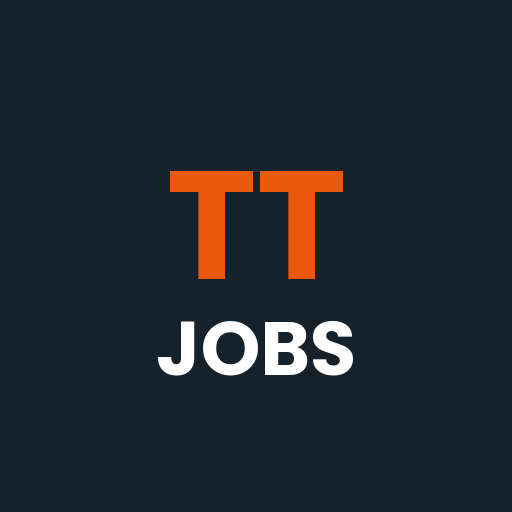
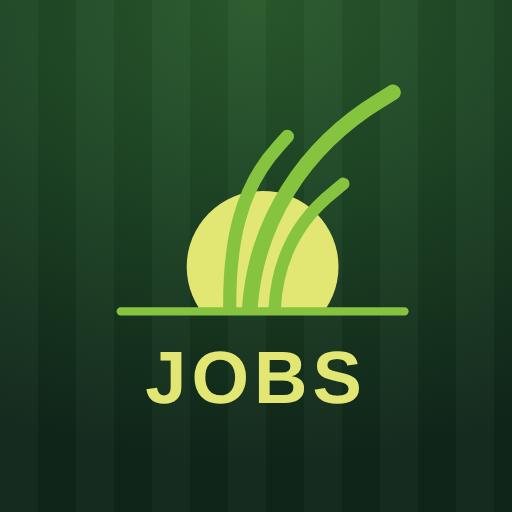
Jobs hub: Turf Tek look and animations (field header, sun + grass splash, day-wrapped screen), smarter speech matching
Claude-Session: https://claude.ai/code/session_011aVj9ML5H66KMwTGkDsHqs

diff --git a/hub/index.html b/hub/index.html
@@ -3,13 +3,13 @@
 <head>
 <meta charset="utf-8">
 <meta name="viewport" content="width=device-width,initial-scale=1,viewport-fit=cover">
-<meta name="theme-color" content="#e8590c">
+<meta name="theme-color" content="#10261a">
 <meta name="apple-mobile-web-app-capable" content="yes">
 <meta name="apple-mobile-web-app-title" content="TT Jobs">
 <link rel="manifest" href="manifest.webmanifest">
 <link rel="apple-touch-icon" href="icon-180.png">
 <link rel="preconnect" href="https://fonts.googleapis.com">
-<link rel="stylesheet" href="https://fonts.googleapis.com/css2?family=Barlow+Condensed:wght@500;600;700&family=Atkinson+Hyperlegible:wght@400;700&display=swap">
+<link rel="stylesheet" href="https://fonts.googleapis.com/css2?family=Barlow:wght@400;500;600;700&family=Barlow+Condensed:wght@600;700&display=swap">
 <title>Turf Tek Jobs</title>
 <style>
 :root{--bg:#eef2f4;--panel:#fff;--ink:#15212b;--muted:#5b6b78;--line:#d3dce2;--paint:#e8590c;--paintsoft:#fff0e6;--steel:#1f5f8b;--steelsoft:#e6f0f7;--good:#1e7d45;--goodbg:#e3f3e9;--warn:#a86500;--warnbg:#fbefd9;--bad:#b42318;--badbg:#fbe4e1;--shadow:0 1px 2px rgba(21,33,43,.06),0 4px 14px rgba(21,33,43,.06);--display:"Barlow Condensed","Arial Narrow",system-ui,sans-serif;--body:"Atkinson Hyperlegible",system-ui,sans-serif}
@@ -101,10 +101,120 @@ label.f{display:block;font-size:13px;font-weight:700;color:var(--muted);margin:1
 .btag{display:flex;gap:6px;flex-wrap:wrap;margin-top:5px}
 .toast{position:fixed;left:50%;bottom:calc(84px + env(safe-area-inset-bottom));transform:translateX(-50%);background:var(--ink);color:#fff;padding:10px 16px;border-radius:999px;font-size:14px;z-index:30;opacity:0;transition:opacity .2s;pointer-events:none}
 .toast.show{opacity:1}
+
+/* ===== Turf Tek look: same field, sun and grass as the Turf Tek Direct calculator ===== */
+:root{--brand:#86c440;--brand-d:#5f9b25;--sun:#e2e773;--forest:#10261a;--forest2:#1d4424;--green-l:#eef6e6;
+  --bg:#f1f4ee;--panel:#fff;--ink:#16221a;--muted:#5f6d62;--line:#e3e9df;--paint:#73b02f;--paintsoft:#eef6e6;--steel:#2f6d2a;--steelsoft:#eef6e6;--good:#3f8f2f;--goodbg:#e6f3dc;
+  --shadow:0 1px 2px rgba(16,38,26,.06),0 6px 20px rgba(16,38,26,.06);--body:Barlow,system-ui,sans-serif;
+  --stripes:repeating-linear-gradient(90deg,rgba(255,255,255,.025) 0 38px,rgba(0,0,0,.04) 38px 76px);
+  --field:radial-gradient(120% 90% at 50% 0%,#2a5a2c 0%,#1d4424 45%,#10261a 100%)}
+body{line-height:1.4}
+.top{background:var(--stripes),var(--field);padding-bottom:14px;box-shadow:0 4px 18px rgba(16,38,26,.22)}
+.top:after{content:"";position:absolute;left:0;right:0;bottom:0;height:4px;background:linear-gradient(90deg,var(--brand),var(--sun),var(--brand))}
+.top .mark{width:46px;height:auto;flex:none;margin:-4px -2px -2px -4px;overflow:visible}
+.brand{letter-spacing:.06em;font-size:25px;line-height:1}
+.brand b{color:var(--sun)}
+.sub{margin-top:2px}
+.iconbtn{background:rgba(255,255,255,.09);border:1px solid rgba(255,255,255,.14);border-radius:12px;width:42px;height:42px;font-size:20px;transition:transform .4s}
+.iconbtn:active{transform:rotate(60deg)}
+.tabs{background:rgba(16,38,26,.95);backdrop-filter:blur(10px);-webkit-backdrop-filter:blur(10px);border-top:0}
+.tabs button{color:rgba(255,255,255,.55);position:relative;transition:color .2s}
+.tabs button span{transition:transform .25s cubic-bezier(.2,.9,.3,1.4)}
+.tabs button.on{color:var(--sun)}
+.tabs button.on span{transform:translateY(-2px) scale(1.12)}
+.tabs button.on:before{content:"";position:absolute;top:0;left:28%;right:28%;height:3px;border-radius:0 0 4px 4px;background:var(--brand);animation:tabIn .3s ease-out}
+@keyframes tabIn{from{transform:scaleX(0)}to{transform:none}}
+h2{color:var(--forest2)}
+.card,.list{border:1px solid var(--line);border-radius:18px}
+.jobname{color:var(--forest2)}
+.btn{background:var(--green-l);color:var(--forest2);transition:transform .1s,box-shadow .15s,background .15s}
+.btn:active{transform:translateY(1px) scale(.99)}
+.btn.paint{background:linear-gradient(180deg,#8fcd48,#73b02f);color:var(--forest);box-shadow:0 6px 16px rgba(115,176,47,.35)}
+.btn.paint:active{box-shadow:0 3px 8px rgba(115,176,47,.3)}
+.btn.ghost{background:none;color:var(--brand-d);box-shadow:none}
+.mic{background:linear-gradient(180deg,#8fcd48,#73b02f);color:var(--forest)}
+.mic.live{animation:micPulse 1.1s ease-out infinite}
+@keyframes micPulse{0%{box-shadow:0 0 0 0 rgba(134,196,64,.75)}100%{box-shadow:0 0 0 16px rgba(134,196,64,0)}}
+.check{border-color:#cdd8c7;transition:background .15s,border-color .15s}
+.check.on{background:var(--brand);border-color:var(--brand);color:var(--forest);animation:tick .35s cubic-bezier(.2,.9,.3,1.5)}
+@keyframes tick{0%{transform:scale(.5)}100%{transform:none}}
+.chip{transition:all .15s}
+.chip.on{border-color:var(--brand);background:var(--green-l);color:var(--forest2)}
+.seg{background:#e4ebe0;border-radius:12px}
+.seg button{transition:all .15s}
+.seg button.on{color:var(--forest2);box-shadow:0 1px 4px rgba(0,0,0,.1)}
+.tag{background:var(--green-l);color:var(--forest2)}
+.tag.lsi{background:#e6eef7;color:#24527a}.tag.pp{background:#fdf0e0;color:#8a4b06}.tag.kompan{background:#e6f3dc;color:#2f6d2a}
+.bar{background:#e4ebe0}
+.bar i{background:linear-gradient(90deg,var(--brand),var(--sun));transform-origin:left;animation:barIn 1s cubic-bezier(.3,0,.15,1)}
+@keyframes barIn{from{transform:scaleX(0)}}
+input[type=text],input[type=date],input[type=number],input[type=search],input[type=url],select,textarea{border-color:#dbe3d7;background:#fbfcfa;border-radius:11px;transition:border-color .15s,box-shadow .15s,background .15s}
+input:focus,select:focus,textarea:focus{outline:none;border-color:var(--brand)!important;background:#fff;box-shadow:0 0 0 4px rgba(134,196,64,.2)}
+.istoday{background:var(--green-l)}
+.istoday .daynum b{color:var(--brand-d)}
+.wsum{background:var(--forest2);color:#fff}
+.hit mark{background:var(--sun)}
+.toast{background:var(--forest2);box-shadow:0 6px 20px rgba(16,38,26,.3)}
+/* today: the field card */
+.hero-card{background:var(--stripes),var(--field);color:#fff;border:0;position:relative;overflow:hidden;padding-bottom:16px}
+.hero-card:after{content:"";position:absolute;left:0;right:0;bottom:0;height:4px;background:linear-gradient(90deg,var(--brand),var(--sun),var(--brand))}
+.hero-card .sunbg{position:absolute;right:-34px;top:-30px;width:150px;height:150px;border-radius:50%;background:var(--sun);opacity:.13;animation:sunGrow .8s cubic-bezier(.2,.9,.3,1.25) both}
+@keyframes sunGrow{from{transform:scale(0)}to{transform:scale(1)}}
+.hero-card>*:not(.sunbg){position:relative}
+.hero-card .muted{color:rgba(255,255,255,.7)!important}
+.hero-card .today-date{color:var(--sun)}
+.hero-card .jobname{color:#fff}
+.hero-card .btn.ghost{color:var(--sun)}
+.hero-card .btn:not(.paint):not(.ghost){background:rgba(255,255,255,.09);color:#fff;border:1px solid rgba(255,255,255,.14)}
+.hero-card .tag.lsi,.hero-card .tag.pp,.hero-card .tag.kompan{background:rgba(255,255,255,.12);color:#fff}
+/* motion */
+@keyframes pop{from{opacity:0;transform:translateY(10px)}to{opacity:1;transform:none}}
+#view.anim>*{animation:pop .4s ease-out both}
+#view.anim>*:nth-child(2){animation-delay:.05s}#view.anim>*:nth-child(3){animation-delay:.1s}#view.anim>*:nth-child(4){animation-delay:.15s}
+#view.anim>*:nth-child(5){animation-delay:.2s}#view.anim>*:nth-child(6){animation-delay:.25s}#view.anim>*:nth-child(n+7){animation-delay:.3s}
+.sheetbg{animation:fadeIn .2s ease-out}
+.sheet{animation:sheetUp .34s cubic-bezier(.2,.9,.3,1)}
+@keyframes sheetUp{from{transform:translateY(40%);opacity:.4}to{transform:none;opacity:1}}
+@keyframes fadeIn{from{opacity:0}to{opacity:1}}
+/* sun + grass mark */
+.mk .sun{transform-box:fill-box;transform-origin:50% 100%}
+.mk.play .sun{transform:scale(0);opacity:0;animation:sunUp .6s cubic-bezier(.2,.9,.3,1.25) .1s forwards}
+.mk.play .ground{stroke-dasharray:1 1;stroke-dashoffset:1;animation:grow .5s ease-out .45s forwards}
+.mk.play .g{stroke-dasharray:1 1;stroke-dashoffset:1}
+.mk.play .g1{animation:grow .9s cubic-bezier(.3,0,.15,1) .55s forwards}
+.mk.play .g2{animation:grow 1.1s cubic-bezier(.3,0,.15,1) .7s forwards}
+.mk.play .g3{animation:grow .85s cubic-bezier(.3,0,.15,1) .9s forwards}
+.mk .blades{transform-box:fill-box;transform-origin:50% 100%}
+.mk.play .blades{animation:sway 5s ease-in-out 2.4s infinite}
+@keyframes sunUp{from{transform:scale(0);opacity:0}to{transform:scale(1);opacity:1}}
+@keyframes grow{to{stroke-dashoffset:0}}
+@keyframes sway{0%,100%{transform:rotate(0)}50%{transform:rotate(1.6deg)}}
+/* splash + day-wrapped screens */
+.field{position:fixed;inset:0;z-index:60;display:flex;flex-direction:column;align-items:center;justify-content:center;color:#fff;text-align:center;background:var(--stripes),var(--field);padding:30px 22px calc(30px + env(safe-area-inset-bottom));cursor:pointer}
+.field:after{content:"";position:absolute;left:0;right:0;bottom:0;height:5px;background:linear-gradient(90deg,var(--brand),var(--sun),var(--brand))}
+.field .mk{width:min(240px,62vw);height:auto;overflow:visible}
+.field h1,.field h2{font-family:var(--display);font-weight:700;text-transform:uppercase;letter-spacing:.06em;margin:6px 0 0;color:#fff}
+.field h1{font-size:46px;line-height:.95}.field h1 b{color:var(--sun)}
+.field h2{font-size:38px;line-height:1}
+.field p{color:rgba(255,255,255,.8);margin:10px 0 0}
+.field .fade{opacity:0;transform:translateY(8px);animation:pop .5s ease-out forwards}
+.field.intro{transition:transform .6s cubic-bezier(.65,0,.25,1)}
+.field.out{transform:translateY(-100%)}
+.field.done{animation:fadeIn .35s ease-out}
+.field.bye{opacity:0;transition:opacity .3s}
+.field .tiles{display:grid;grid-template-columns:repeat(3,1fr);gap:8px;width:100%;max-width:420px;margin-top:22px}
+.field .tiles div{background:rgba(255,255,255,.08);border:1px solid rgba(255,255,255,.12);border-radius:12px;padding:10px 6px}
+.field .tiles b{display:block;font-family:var(--display);font-size:32px;line-height:1.05;color:#fff}
+.field .tiles div:first-child b{color:var(--sun)}
+.field .tiles span{font-size:12px;color:rgba(255,255,255,.7)}
+.field .btn.paint{margin-top:24px;max-width:420px;width:100%;font-size:18px}
+.field .skip{position:absolute;bottom:calc(20px + env(safe-area-inset-bottom));left:0;right:0;font-size:12.5px;color:rgba(255,255,255,.45)}
+@media (prefers-reduced-motion:reduce){*,*:before,*:after{animation-duration:.01s!important;animation-delay:0s!important;transition-duration:.01s!important}}
 </style>
 </head>
 <body>
 <header class="top">
+  <svg class="mark mk" viewBox="0 0 200 150" aria-hidden="true"></svg>
   <div><div class="brand">TURF TEK <b>JOBS</b></div><div class="sub" id="hdrSub"></div></div>
   <div class="sp"></div>
   <button class="iconbtn" id="gear" aria-label="Settings">⚙</button>
@@ -149,7 +259,37 @@ DB.crew??=[];DB.rem??=[];DB.sched??={};
 const save=()=>{try{localStorage.setItem(KEY,JSON.stringify(DB))}catch(e){toast('Could not save on this device')}};
 save();
 
-const S={tab:'today',job:null,jtab:'overview',filter:'active',q:''};
+const S={tab:'today',job:null,jtab:'overview',filter:'active',q:'',anim:true};
+/* ---------- sun + grass mark (same shape as the Turf Tek Direct logo) ---------- */
+const MARK=`<defs><clipPath id="mkc"><rect x="0" y="0" width="200" height="138"/></clipPath></defs>
+  <circle class="sun" cx="104" cy="112" r="46" fill="#e2e773" clip-path="url(#mkc)"/>
+  <g class="blades" fill="none" stroke="#86c440" stroke-linecap="round" clip-path="url(#mkc)">
+    <path class="g g1" pathLength="1" stroke-width="8" d="M84.1,140 L84.1,137.7 C83.7,98.7 89.8,65 113.4,39.2 L119,33"/>
+    <path class="g g2" pathLength="1" stroke-width="9.5" d="M96.2,140 L96.2,137.7 C99.6,85.4 128.8,39.3 175.4,11 L183,6.3"/>
+    <path class="g g3" pathLength="1" stroke-width="7.5" d="M111.3,140 L111.3,137.7 C112.8,107.6 125.2,83.7 147.2,66.4 L152.9,61.7"/>
+  </g>
+  <path class="ground" pathLength="1" d="M18,139 L190,139" stroke="#86c440" stroke-width="5" stroke-linecap="round" fill="none"/>`;
+document.querySelector('.top .mark').innerHTML=MARK;
+function splash(){
+  try{if(sessionStorage.getItem('hub_intro'))return;sessionStorage.setItem('hub_intro','1')}catch(e){}
+  if(matchMedia('(prefers-reduced-motion: reduce)').matches)return;
+  const el=document.createElement('div');el.className='field intro';
+  el.innerHTML=`<svg class="mk play" viewBox="0 0 200 150">${MARK}</svg><h1 class="fade" style="animation-delay:1.2s">Turf Tek <b>Jobs</b></h1><p class="fade" style="animation-delay:1.35s">${fmt(TODAY())}</p><div class="skip">Tap to skip</div>`;
+  document.body.appendChild(el);
+  let done=false;const leave=()=>{if(done)return;done=true;el.classList.add('out');setTimeout(()=>el.remove(),650)};
+  setTimeout(leave,2300);el.onclick=leave;
+}
+function wrapped(stats){
+  const el=document.createElement('div');el.className='field done';
+  el.innerHTML=`<svg class="mk play" viewBox="0 0 200 150">${MARK}</svg>
+    <h2 class="fade" style="animation-delay:1.1s">${stats.moved?'Day wrapped':'Clean sweep'}</h2>
+    <p class="fade" style="animation-delay:1.2s">${esc(stats.job)} · Build day ${stats.day}</p>
+    <div class="tiles fade" style="animation-delay:1.35s"><div><b data-n="${stats.done}">0</b><span>done</span></div><div><b data-n="${stats.ahead}">0</b><span>ahead of plan</span></div><div><b data-n="${stats.moved}">0</b><span>${stats.next?'to '+esc(stats.next):'moved on'}</span></div></div>
+    <button class="btn paint big fade" style="animation-delay:1.5s">Done</button>`;
+  document.body.appendChild(el);
+  setTimeout(()=>el.querySelectorAll('[data-n]').forEach(b=>{const n=+b.dataset.n,t0=performance.now();const step=t=>{const k=Math.min(1,(t-t0)/700);b.textContent=Math.round(n*(1-Math.pow(1-k,3)));if(k<1)requestAnimationFrame(step)};requestAnimationFrame(step)}),1400);
+  const bye=()=>{el.classList.add('bye');setTimeout(()=>el.remove(),300)};el.onclick=bye;
+}
 const job=id=>DB.jobs.find(j=>j.id===id);
 const layoutURL=j=>j.layout===null||j.layout===undefined?null:(/^https?:/.test(j.layout)?j.layout:LAYOUT_BASE+j.layout);
 const mfrTag=m=>{const k=/kompan/i.test(m)?'kompan':/landscape|lsi/i.test(m)?'lsi':/play|park|supermax/i.test(m)?'pp':'';return m?`<span class="tag ${k}">${esc(m)}</span>`:''};
@@ -182,18 +322,27 @@ const NEG=/\b(didn'?t|did not|not|no|never|couldn'?t|could not|still|need|needs|
 function sameHole(a,b){a=String(a).toLowerCase();b=String(b).toLowerCase();if(a===b)return true;const ra=a.match(/^([a-z]*)0*(\d+)$/),rb=b.match(/^([a-z]*)0*(\d+)$/);return !!(ra&&rb&&ra[2]===rb[2]&&(ra[1]===rb[1]||!rb[1]))}
 function matchSpoken(text,N){
   const hits=new Set(),E=Object.entries(N);
-  for(const raw of String(text).split(/[.;!?\n]+|,?\s+but\s+|\s+except\s+|\s+however\s+/i)){
-    const c=normT(raw);if(!c.trim()||NEG.test(c))continue;
+  let lastKw='',lastNeg=false;
+  for(const raw of String(text).split(/[.;!?\n,]+|\s+but\s+|\s+except\s+|\s+however\s+/i)){
+    let c=normT(raw);if(!c.trim())continue;
+    const cont=/^\s*(and\s+)?[a-z]{0,2}\d/.test(c);
+    if(cont&&lastKw)c=' '+lastKw+c.replace(/^\s*and\s+/,' ');
+    const neg=cont?lastNeg||NEG.test(c):NEG.test(c);
+    const kw=c.match(/\b(poles?|holes?|posts?|footings?)\s+[a-z]{0,2}\d/);if(kw)lastKw=kw[1];else if(!cont)lastKw='';
+    lastNeg=neg;if(neg)continue;
     const foot=/footing|pour|concrete|slab|pad/.test(c);
     const re=/\b(poles?|holes?|posts?|footings?)\s+((?:[a-z]{0,2}\d+)(?:\s+(?:and|through|thru|to|n)?\s*[a-z]{0,2}\d+)*)/g;let m;
-    while((m=re.exec(c))){const toks=m[2].split(/\s+/).filter(Boolean),nums=[];
+    while((m=re.exec(c))){const toks=m[2].split(/\s+/).filter(Boolean),nums=[],fill=new Set();
       for(let i=0;i<toks.length;i++){const t=toks[i];
-        if(/^(through|thru|to)$/.test(t)&&nums.length&&toks[i+1]){const last=nums[nums.length-1],pre=(last.match(/^[a-z]*/)||[''])[0],a=parseInt(last.replace(/\D/g,'')),b=parseInt(toks[i+1].replace(/\D/g,''));if(b>a&&b-a<60)for(let x=a+1;x<=b;x++)nums.push(pre+x);i++}
+        if(/^(through|thru|to)$/.test(t)&&nums.length&&toks[i+1]){const last=nums[nums.length-1],pre=(last.match(/^[a-z]*/)||[''])[0],a=parseInt(last.replace(/\D/g,'')),b=parseInt(toks[i+1].replace(/\D/g,''));if(b>a&&b-a<60)for(let x=a+1;x<b;x++){nums.push(pre+x);fill.add(pre+x)}nums.push(toks[i+1]);i++}
         else if(/\d/.test(t))nums.push(t)}
       const wantFoot=foot&&!/^pole|^post/.test(m[1]);
-      for(const [k,v] of E){
-        if(!wantFoot&&v.t==='pole'&&nums.some(n=>sameHole(v.h,n)))hits.add(k);
-        if(wantFoot&&v.t==='foot'&&(v.hs||[]).some(h=>nums.some(n=>sameHole(h,n))))hits.add(k)}}
+      const exact=(a,b)=>{const ra=String(a).toLowerCase().match(/^([a-z]*)0*(\d+)$/),rb=String(b).toLowerCase().match(/^([a-z]*)0*(\d+)$/);return ra&&rb?ra[1]===rb[1]&&ra[2]===rb[2]:String(a).toLowerCase()===String(b).toLowerCase()};
+      for(const n of nums){
+        const holesOf=v=>wantFoot?(v.t==='foot'?(v.hs||[]):[]):(v.t==='pole'?[v.h]:[]);
+        let got=E.filter(([k,v])=>holesOf(v).some(h=>exact(h,n)));
+        if(!got.length&&!fill.has(n))got=E.filter(([k,v])=>holesOf(v).some(h=>sameHole(h,n)));
+        got.forEach(([k])=>hits.add(k))}}
     for(const [k,v] of E){if(v.t==='pole')continue;const core=normT(String(v.n).replace(/\(.*?\)/g,'')).trim();if(!core)continue;
       if(c.includes(' '+core+' ')){hits.add(k);continue}
       const w=core.split(' ');if(w.length>2){const sh=w.slice(0,2).join(' ');if((/\d/.test(w[1])||sh.length>=7)&&c.includes(' '+sh+' '))hits.add(k)}}
@@ -258,7 +407,8 @@ function wrapUp(j,dt){
       j.logs=j.logs.filter(l=>!(l.date===dt&&l.build));
       j.logs.push({id:uid(),date:dt,crew:[...crew],hours:Number(el.querySelector('#wh').value)||0,section:'',note:t.value.trim(),made:Date.now(),
         build:{day:i+1,planned,done:planned.filter(k=>done.has(k)),rolled:carry,extra:[...extra],names:nm}});
-      save();close();render();toast(carry.length?`Saved. ${carry.length} moved to ${nextD?fmt(nextD):'next day'}`:'Saved. Everything got done');
+      save();close();render();
+      wrapped({job:j.name,day:i+1,done:didK.length,ahead:extra.size,moved:carry.length,next:carry.length&&nextD?fmt(nextD):''});
     };
   });
 }
@@ -456,8 +606,8 @@ function vToday(){
     return `<div class="item"><button class="check" data-rem="${r.id}"></button><div class="grow"><div class="txt">${esc(r.text)}</div><div class="row wrap small" style="margin-top:4px">${jj?`<span class="tag">${esc(jj.name)}</span>`:''}${due}</div></div></div>`};
   const next=[1,2,3,4,5,6,7].map(n=>addDays(t,n)).filter(d=>(DB.sched[d]&&(DB.sched[d].job||DB.sched[d].note))||buildJobsOn(d).length);
   return `
-  <div class="card">
-    <div class="muted small" style="font-weight:700;text-transform:uppercase;letter-spacing:.05em">${['Sunday','Monday','Tuesday','Wednesday','Thursday','Friday','Saturday'][new Date().getDay()]}</div>
+  <div class="card hero-card"><div class="sunbg"></div>
+    <div class="muted small" style="font-weight:700;text-transform:uppercase;letter-spacing:.05em;position:relative">${['Sunday','Monday','Tuesday','Wednesday','Thursday','Friday','Saturday'][new Date().getDay()]}</div>
     <div class="today-date">${MON[new Date().getMonth()]} ${new Date().getDate()}</div>
     <div style="margin-top:12px" class="row"><div class="grow">
       ${j?`<div class="jobname">${esc(j.name)}</div><div class="row wrap" style="margin-top:4px">${mfrTag(j.mfr)}${j.site?`<span class="small muted">${esc(j.site)}</span>`:''}</div>`:'<div class="muted">No job set for today</div>'}
@@ -584,15 +734,16 @@ function render(){
   $('#hdrSub').textContent=`${active} active job${active===1?'':'s'}`;
   const v=$('#view');
   v.innerHTML=S.tab==='today'?vToday():S.tab==='jobs'?vJobs():S.tab==='sched'?vSched():vBrain();
+  v.classList.remove('anim');if(S.anim){void v.offsetWidth;v.classList.add('anim')}S.anim=false;
   bind(v);
 }
 function bind(v){
   const on=(sel,fn)=>v.querySelectorAll(sel).forEach(el=>el.addEventListener('click',e=>fn(el,e)));
-  on('[data-openjob]',el=>{S.tab='jobs';S.job=el.dataset.openjob;S.jtab='overview';render();scrollTo(0,0)});
+  on('[data-openjob]',el=>{S.anim=true;S.tab='jobs';S.job=el.dataset.openjob;S.jtab='overview';render();scrollTo(0,0)});
   on('[data-day]',el=>editDay(el.dataset.day));
   on('[data-rem]',el=>{const r=DB.rem.find(x=>x.id===el.dataset.rem);r.done=true;r.doneAt=Date.now();save();el.classList.add('on');el.textContent='✓';setTimeout(render,350);toast('Done')});
-  on('[data-filter]',el=>{S.filter=el.dataset.filter;render()});
-  on('[data-jtab]',el=>{S.jtab=el.dataset.jtab;render()});
+  on('[data-filter]',el=>{S.anim=true;S.filter=el.dataset.filter;render()});
+  on('[data-jtab]',el=>{S.anim=true;S.jtab=el.dataset.jtab;render()});
   const j=S.job&&job(S.job);
   on('[data-sec]',el=>{const s=j.sections.find(x=>x.id===el.dataset.sec);s.done=!s.done;save();render()});
   on('[data-delsec]',el=>{const s=j.sections.find(x=>x.id===el.dataset.delsec);if(confirm(`Remove section "${s.name}"?`)){j.sections=j.sections.filter(x=>x!==s);save();render()}});
@@ -610,14 +761,15 @@ function bind(v){
   id('qrem',()=>addReminder(undefined,true));id('qsched',()=>{S.tab='sched';render();scrollTo(0,0)});
   id('qlog',()=>addLog(todayJob()?.id));id('qpunch',()=>addPunch());
   id('newjob',()=>editJob());id('editjob',()=>editJob(j));
-  id('back',()=>{S.job=null;render()});
+  id('back',()=>{S.anim=true;S.job=null;render()});
   id('addpunch',()=>addPunch(j.id));id('addlog',()=>addLog(j.id));
   id('adddoc',()=>{const name=prompt('Name (e.g. Install manual, Site plan)');if(!name)return;const url=prompt('Link (paste the URL)');if(!url)return;j.docs.push({name,url});save();render()});
   const sa=v.querySelector('#seca');if(sa){const inp=v.querySelector('#secn');const add=()=>{const n=inp.value.trim();if(!n)return;j.sections.push({id:uid(),name:n,done:false});save();render()};sa.onclick=add;inp.onkeydown=e=>{if(e.key==='Enter')add()}}
   const q=v.querySelector('#q');if(q){q.oninput=()=>{S.q=q.value;const pos=q.selectionStart;render();const n=$('#q');n.focus();n.setSelectionRange(pos,pos)}}
 }
-document.querySelectorAll('#tabs button').forEach(b=>b.onclick=()=>{if(S.tab===b.dataset.tab&&b.dataset.tab==='jobs')S.job=null;S.tab=b.dataset.tab;render();scrollTo(0,0)});
+document.querySelectorAll('#tabs button').forEach(b=>b.onclick=()=>{S.anim=true;if(S.tab===b.dataset.tab&&b.dataset.tab==='jobs')S.job=null;S.tab=b.dataset.tab;render();scrollTo(0,0)});
 $('#gear').onclick=settings;
+splash();
 addEventListener('storage',render);
 addEventListener('visibilitychange',()=>{if(!document.hidden)render()});
 render();

diff --git a/hub/sw.js b/hub/sw.js
@@ -1,4 +1,4 @@
-const V='hub-v2';
+const V='hub-v3';
 const CORE=['./','index.html','manifest.webmanifest','icon-180.png','icon-192.png','icon-512.png'];
 self.addEventListener('install',e=>{e.waitUntil(caches.open(V).then(c=>c.addAll(CORE)).then(()=>self.skipWaiting()));});
 self.addEventListener('activate',e=>{e.waitUntil((async()=>{for(const k of await caches.keys()) if(k!==V&&k.startsWith('hub-v')) await caches.delete(k); await self.clients.claim();})());});
